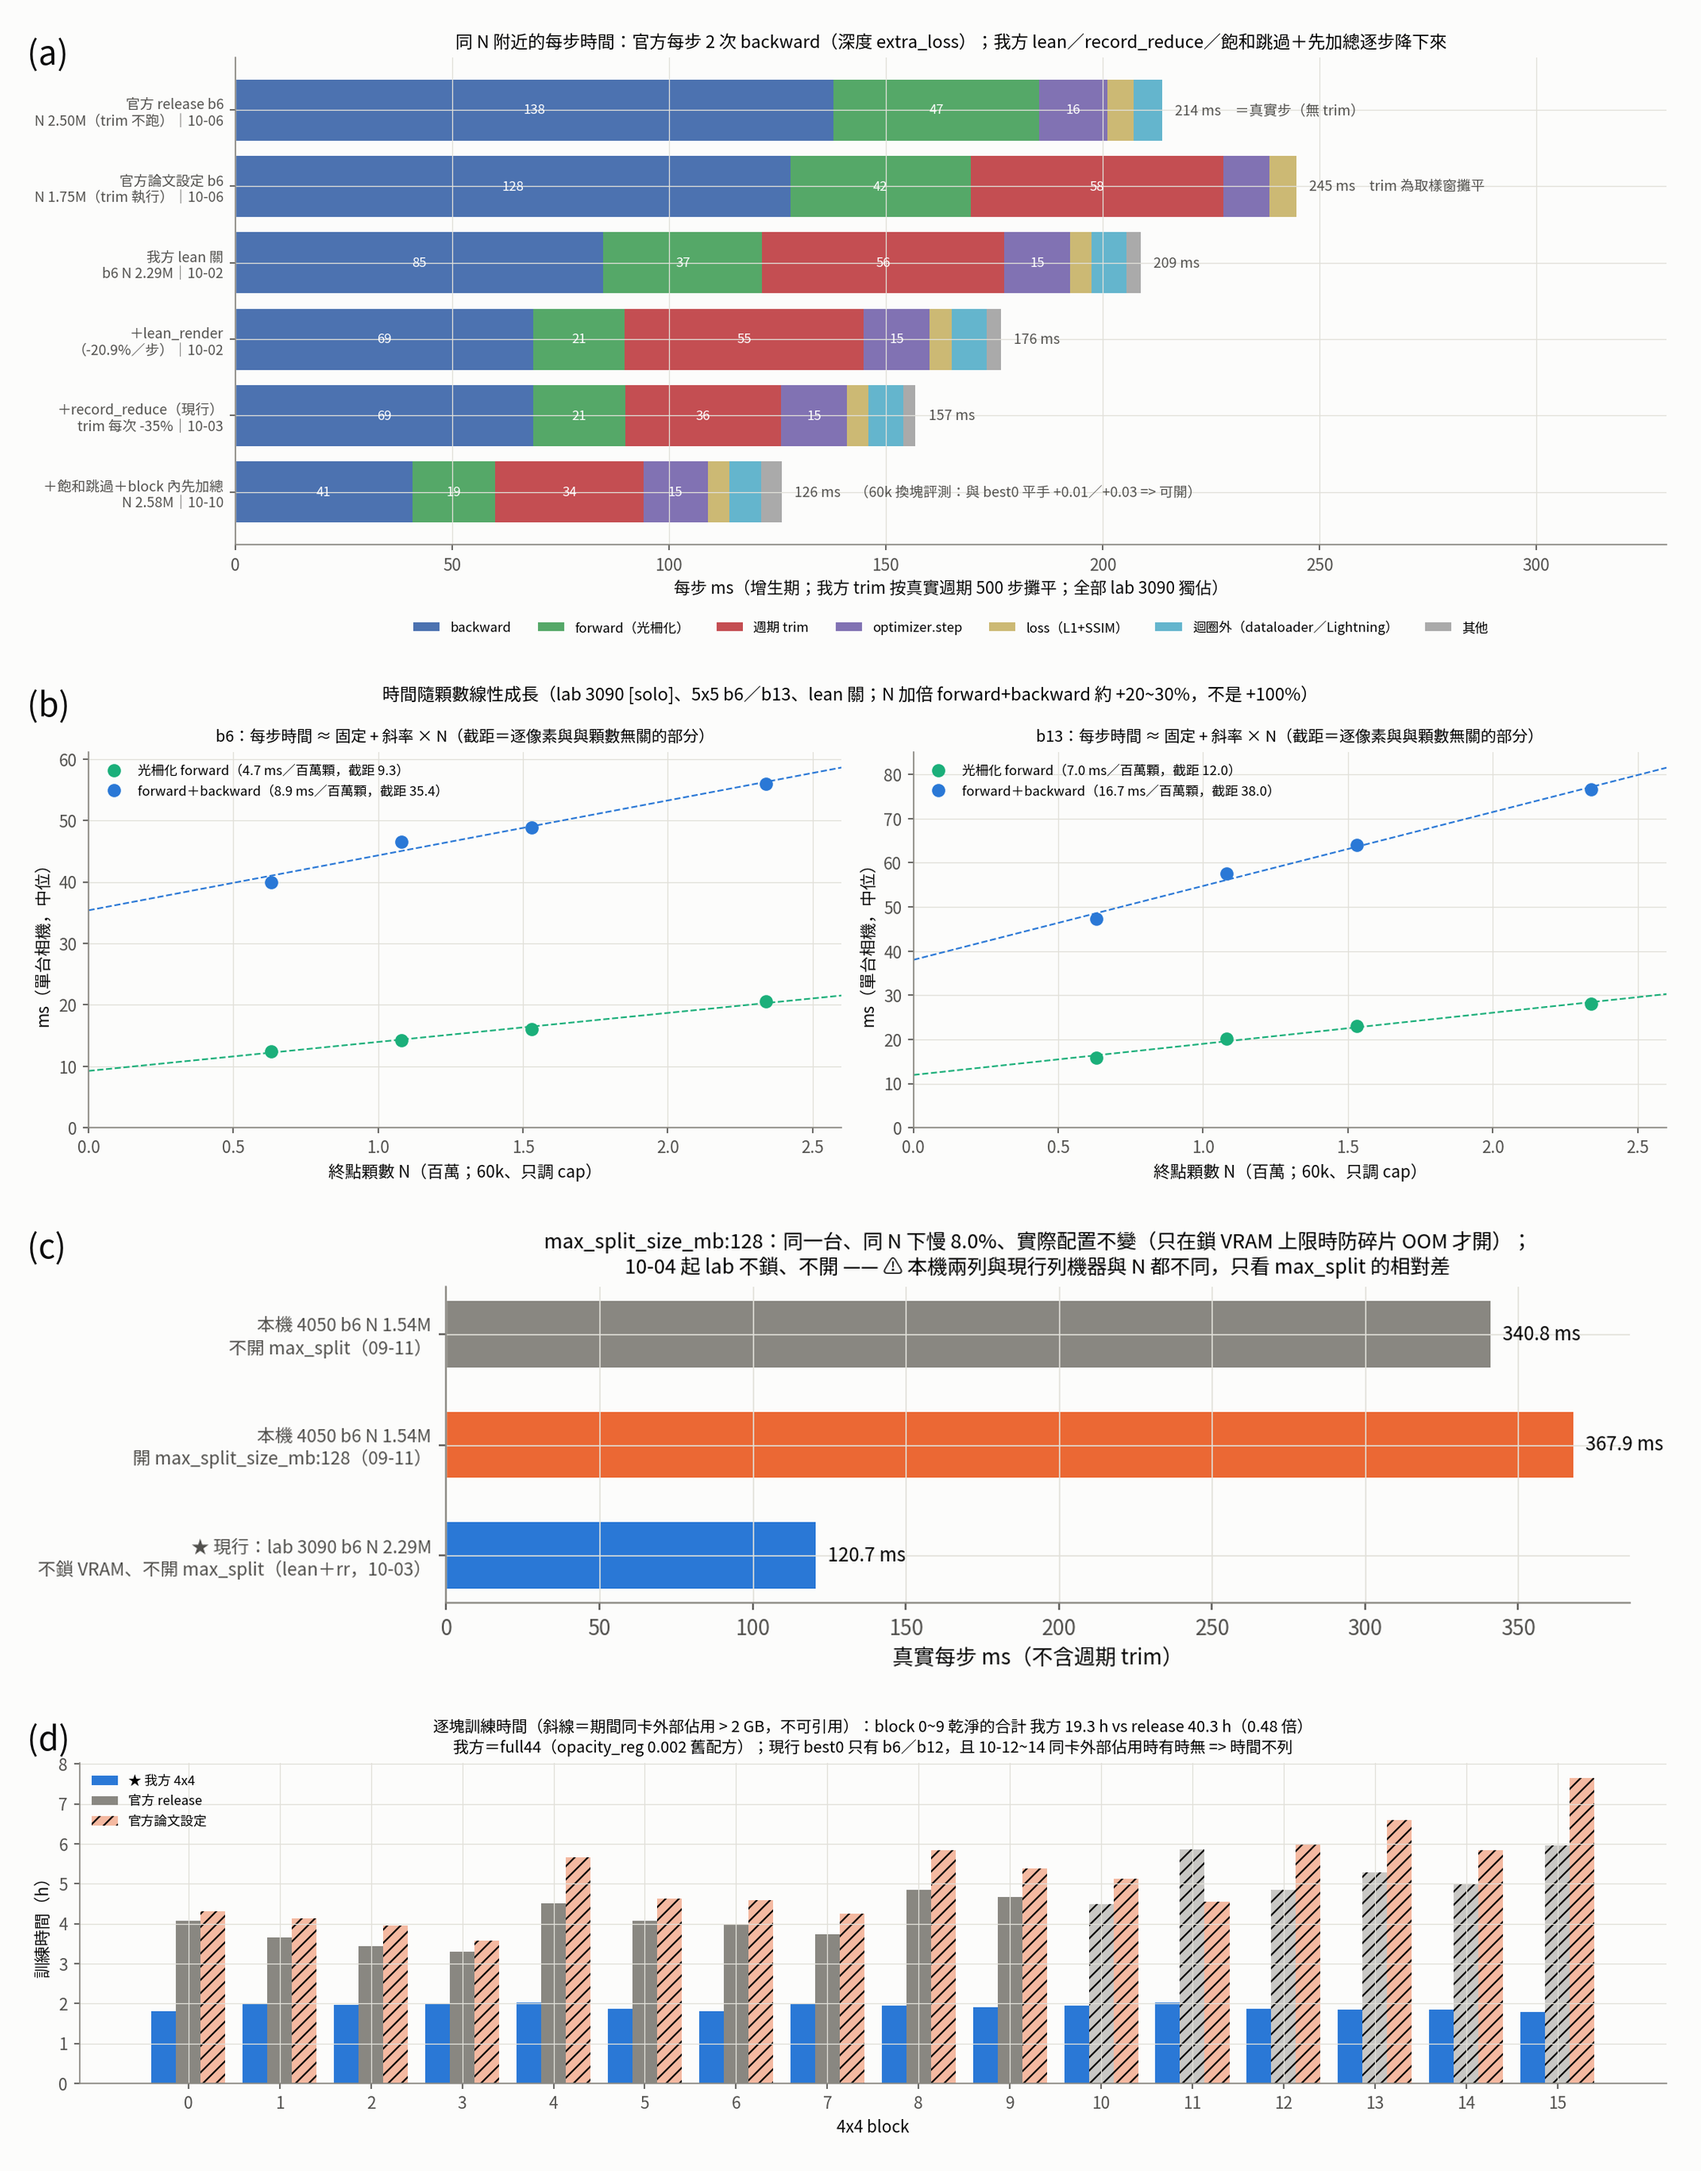
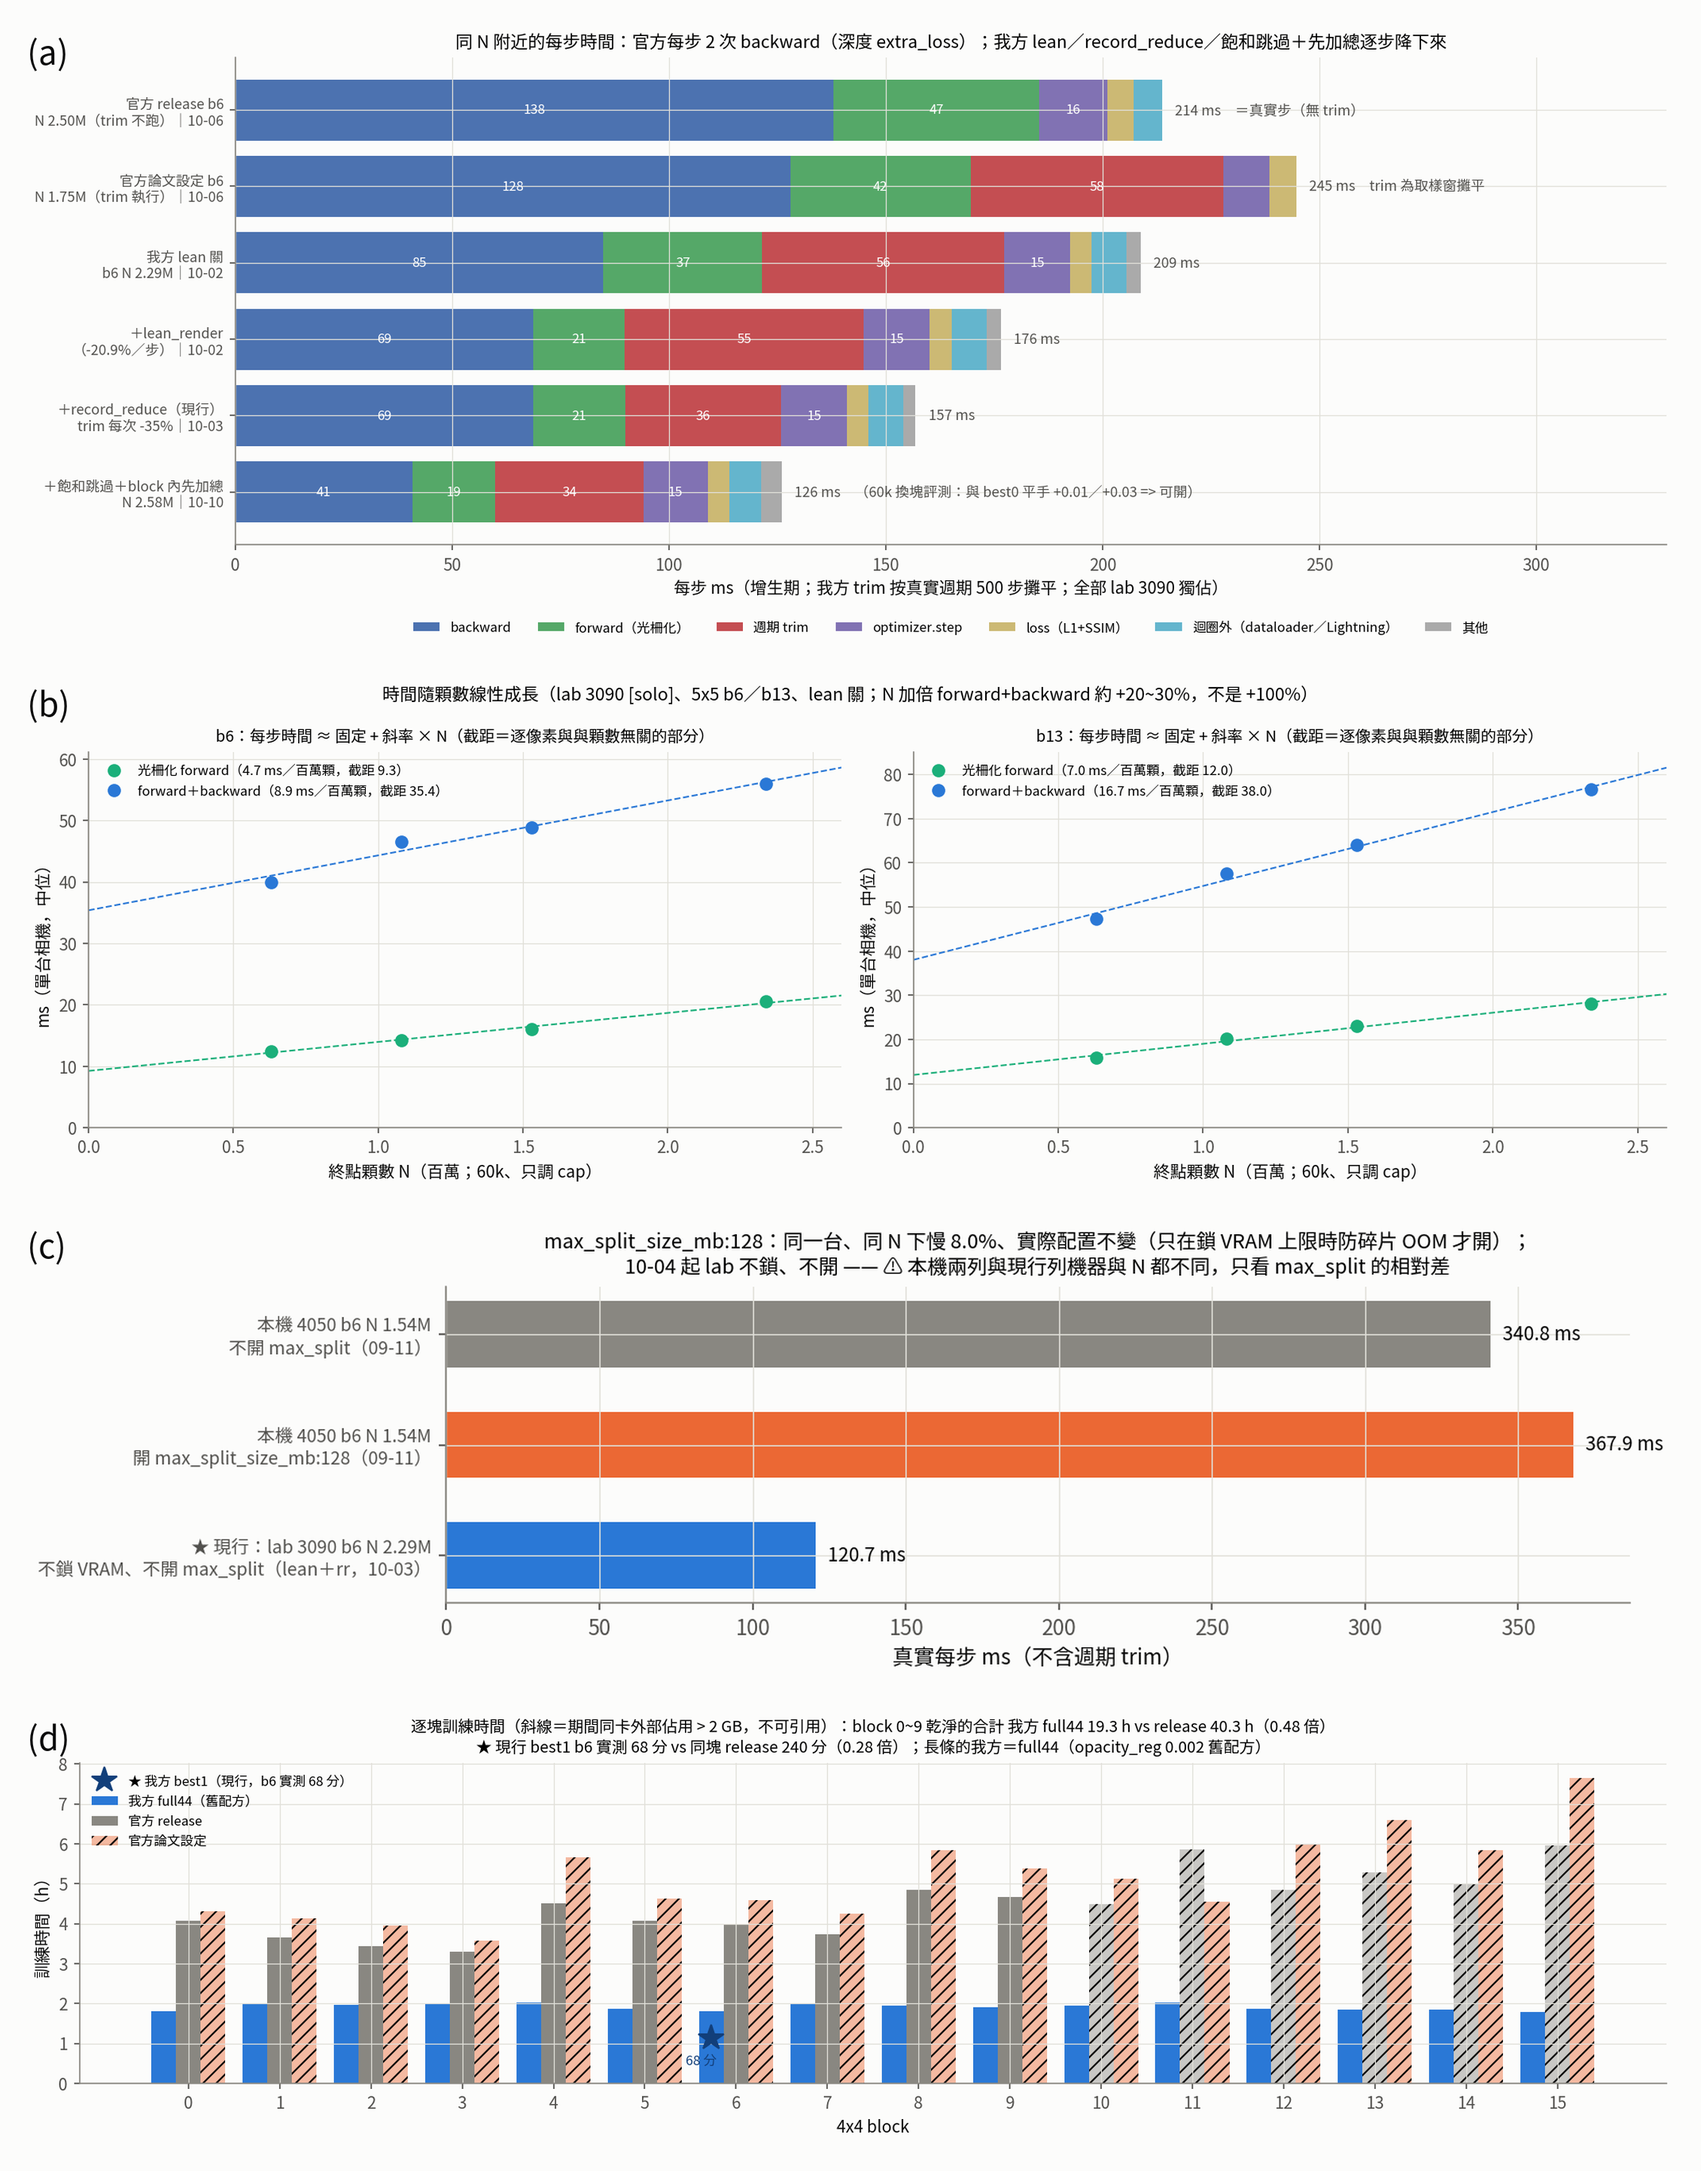
圖 01(d)：加上現行 best1 b6 實測 68 分（同塊 release 240 分，0.28 倍）
Claude-Session: https://claude.ai/code/session_01ASvjmyPMC4F37W41o8s8Aq

Changed region(s): [[0.2478, 0.7799, 0.7743, 0.8111], [0.031, 0.8111, 0.1549, 0.8423], [0.4027, 0.9359, 0.4336, 0.9671]]

diff --git a/tools/plot_analysis.py b/tools/plot_analysis.py
@@ -879,15 +879,18 @@ def n01_blocktime(d):
     """逐塊訓練時間（4x4、60k、lab 3090）：我方 full44 vs 官方 release vs 論文設定（原 09(b) 右）。"""
     x = np.arange(16); wd = 0.27
     fig, ax = plt.subplots(figsize=(14, 3.8))
-    for k, c, dx, lb in [("omin", C1, -wd, LBL3[0]), ("rmin", MUTED, 0, LBL3[1]), ("pmin", C2, wd, LBL3[2])]:
+    for k, c, dx, lb in [("omin", C1, -wd, "我方 full44（舊配方）"), ("rmin", MUTED, 0, LBL3[1]), ("pmin", C2, wd, LBL3[2])]:
         bars = ax.bar(x + dx, [m / 60 for m in F44[k]], wd, color=c, label=lb)
         if k != "omin":
             for b_, e in zip(bars, F44["rext" if k == "rmin" else "pext"]):
                 if e > 2000:
                     b_.set_hatch("///"); b_.set_alpha(0.45)
+    # ★ 10-15 現行 best1 b6 完整 60k 獨佔實測 68.0 分（`task_best1_time.sh full 6`，量測期間卡上無其他行程；`15` §2）
+    ax.plot([6 - wd], [68.0 / 60], marker="*", color="#123f7a", ms=16, lw=0, label="★ 我方 best1（現行，b6 實測 68 分）", zorder=5)
+    ax.annotate("68 分", (6 - wd, 68.0 / 60), xytext=(-6, -16), textcoords="offset points", fontsize=8, color="#123f7a", ha="center")
     ax.set_xticks(x); ax.set_xlabel("4x4 block"); ax.set_ylabel("訓練時間（h）"); ax.legend(fontsize=8, loc="upper left")
-    ax.set_title("逐塊訓練時間（斜線＝期間同卡外部佔用 > 2 GB，不可引用）：block 0~9 乾淨的合計 我方 19.3 h vs release 40.3 h（0.48 倍）\n"
-                 "我方＝full44（opacity_reg 0.002 舊配方）；現行 best0 只有 b6／b12，且 10-12~14 同卡外部佔用時有時無 => 時間不列", fontsize=9.5)
+    ax.set_title("逐塊訓練時間（斜線＝期間同卡外部佔用 > 2 GB，不可引用）：block 0~9 乾淨的合計 我方 full44 19.3 h vs release 40.3 h（0.48 倍）\n"
+                 "★ 現行 best1 b6 實測 68 分 vs 同塊 release 240 分（0.28 倍）；長條的我方＝full44（opacity_reg 0.002 舊配方）", fontsize=9.5)
     save(fig, d, "n01_blocktime.png")
 
 

diff --git a/紀錄/實驗分析/01_訓練時間組成.md b/紀錄/實驗分析/01_訓練時間組成.md
@@ -12,7 +12,7 @@
 | (a) | 每步逐段時間（增生期；trim 按 500 步攤平）：官方 release／論文設定，加上我方近期改動逐步疊上（lean → record_reduce → 飽和跳過＋block 內先加總） | §0.1 |
 | (b) | 每步時間隨顆數線性成長（60k、只調 cap、b6／b13；lean 關）：固定項＋斜率 × N | §0.2 |
 | (c) | max_split_size_mb:128 的代價（本機兩列，09-11）與現行 lab（不鎖、不開）並列 | §0.3、`02` §2 |
-| (d) | 逐塊訓練時間（4x4、60k）：我方 full44 vs 官方 release／論文設定（原 `09`(b) 右；斜線＝同卡外部佔用 > 2 GB，不可引用） | `09` §0.2 |
+| (d) | 逐塊訓練時間（4x4、60k）：我方 full44 vs 官方 release／論文設定（原 `09`(b) 右；斜線＝同卡外部佔用 > 2 GB，不可引用）；★＝現行 best1 b6 實測 68 分（同塊 release 240 分，0.28 倍） | `09` §0.2、`15` §2 |
 
 **10-14 對照官方（使用者要求：官方跑次的數據放進對應的我方圖表）**：**10-15 現行 best1 的乾淨計時 => `15` §2（一塊 60k 約 62.5／60.3 分鐘，best0 74.7／78.4）**。block 0~9 乾淨的合計 我方 19.3 h vs release 40.3 h（0.48 倍）。(a) 最後一列（飽和跳過＋先加總）的 60k 換塊評測已出：與 best0 平手（+0.01／+0.03）=> 可開。現行 best0 只有 b6／b12，且 10-12~14 期間同卡外部佔用時有時無 => 不列 best0 的時間。
 
